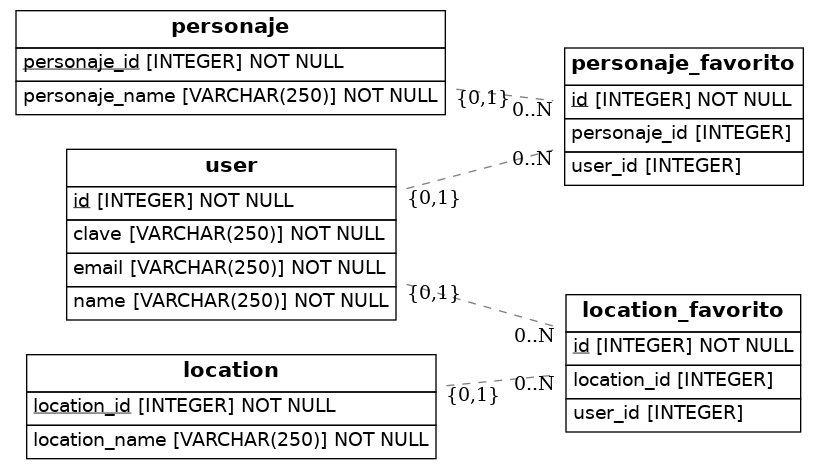
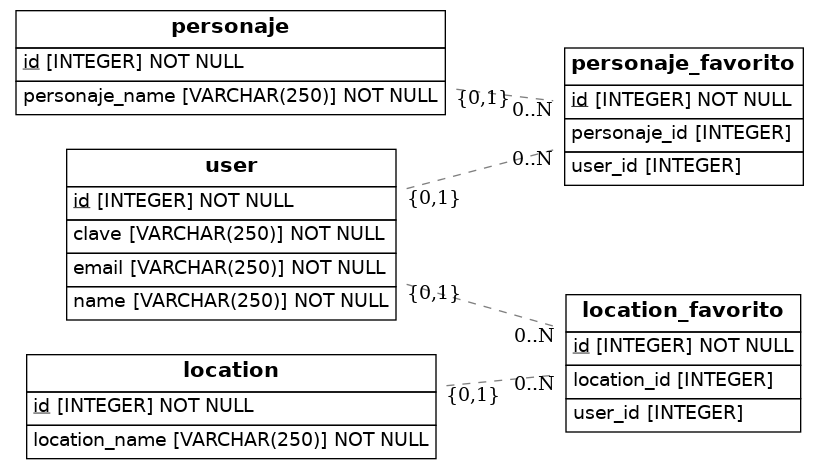
correccion

Changed region(s): [[0.0611, 0.8358, 0.3968, 0.8955], [0.0305, 0.0896, 0.4274, 0.1493]]

diff --git a/src/models.py b/src/models.py
@@ -20,14 +20,14 @@ class Personaje(Base):
     __tablename__ = 'personaje'
     # Here we define columns for the table person
     # Notice that each column is also a normal Python instance attribute.
-    personaje_id = Column(Integer, primary_key=True)
+    id = Column(Integer, primary_key=True)
     personaje_name = Column(String(250), nullable=False)
 
 class Location(Base):
     __tablename__ = 'location'
     # Here we define columns for the table person
     # Notice that each column is also a normal Python instance attribute.
-    location_id = Column(Integer, primary_key=True)
+    id = Column(Integer, primary_key=True)
     location_name = Column(String(250), nullable=False)
 
 class Personaje_Favorito(Base):
